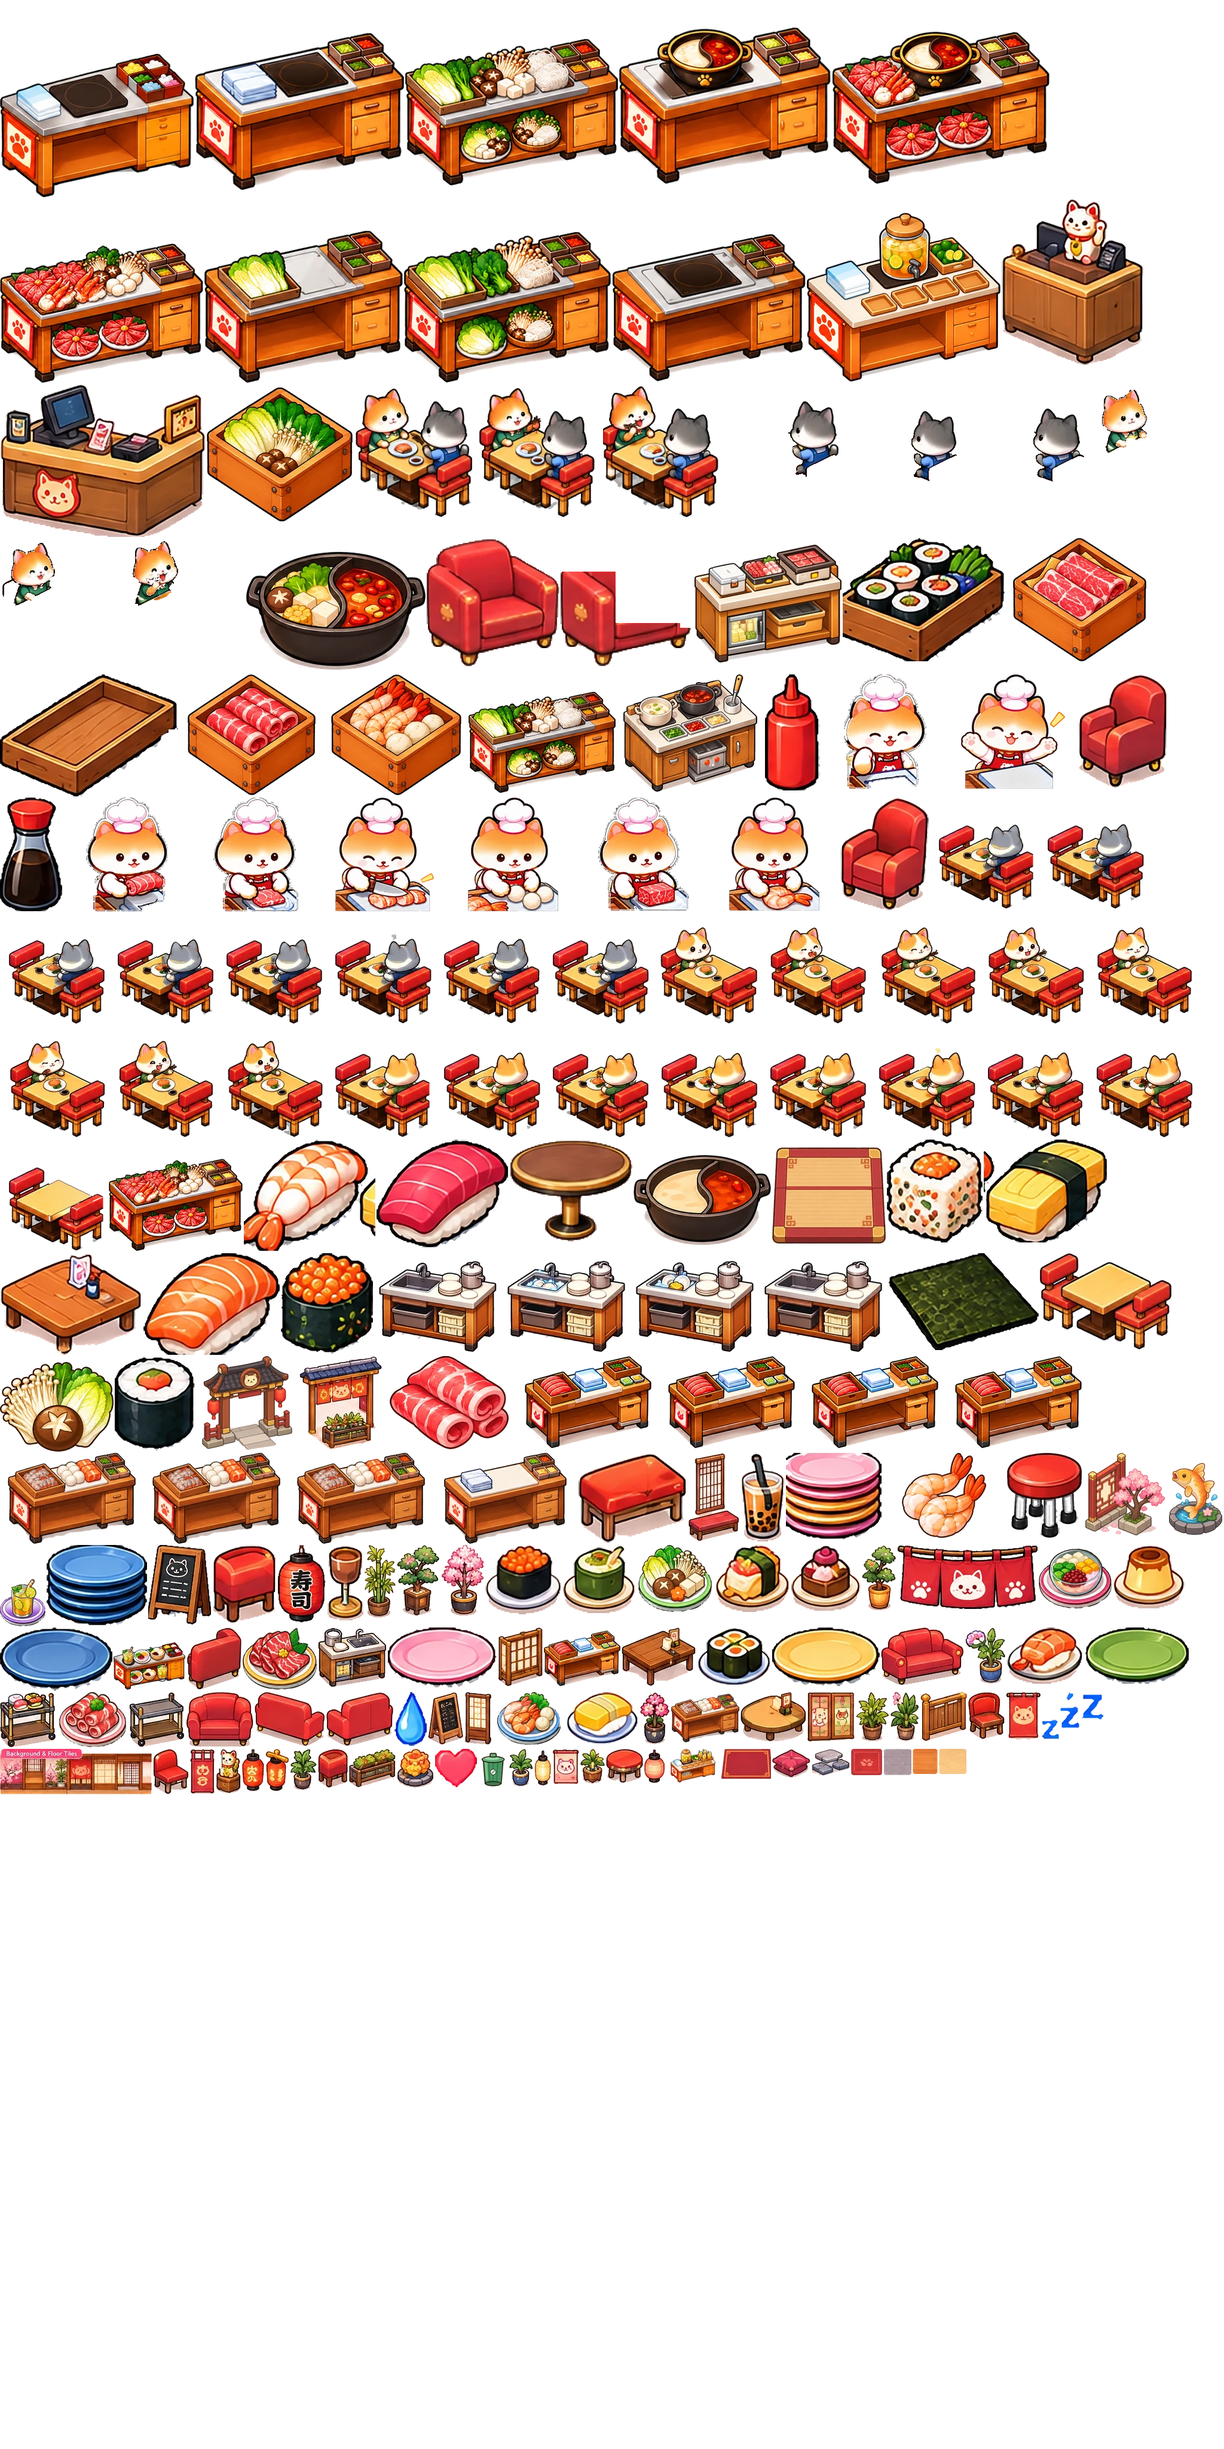
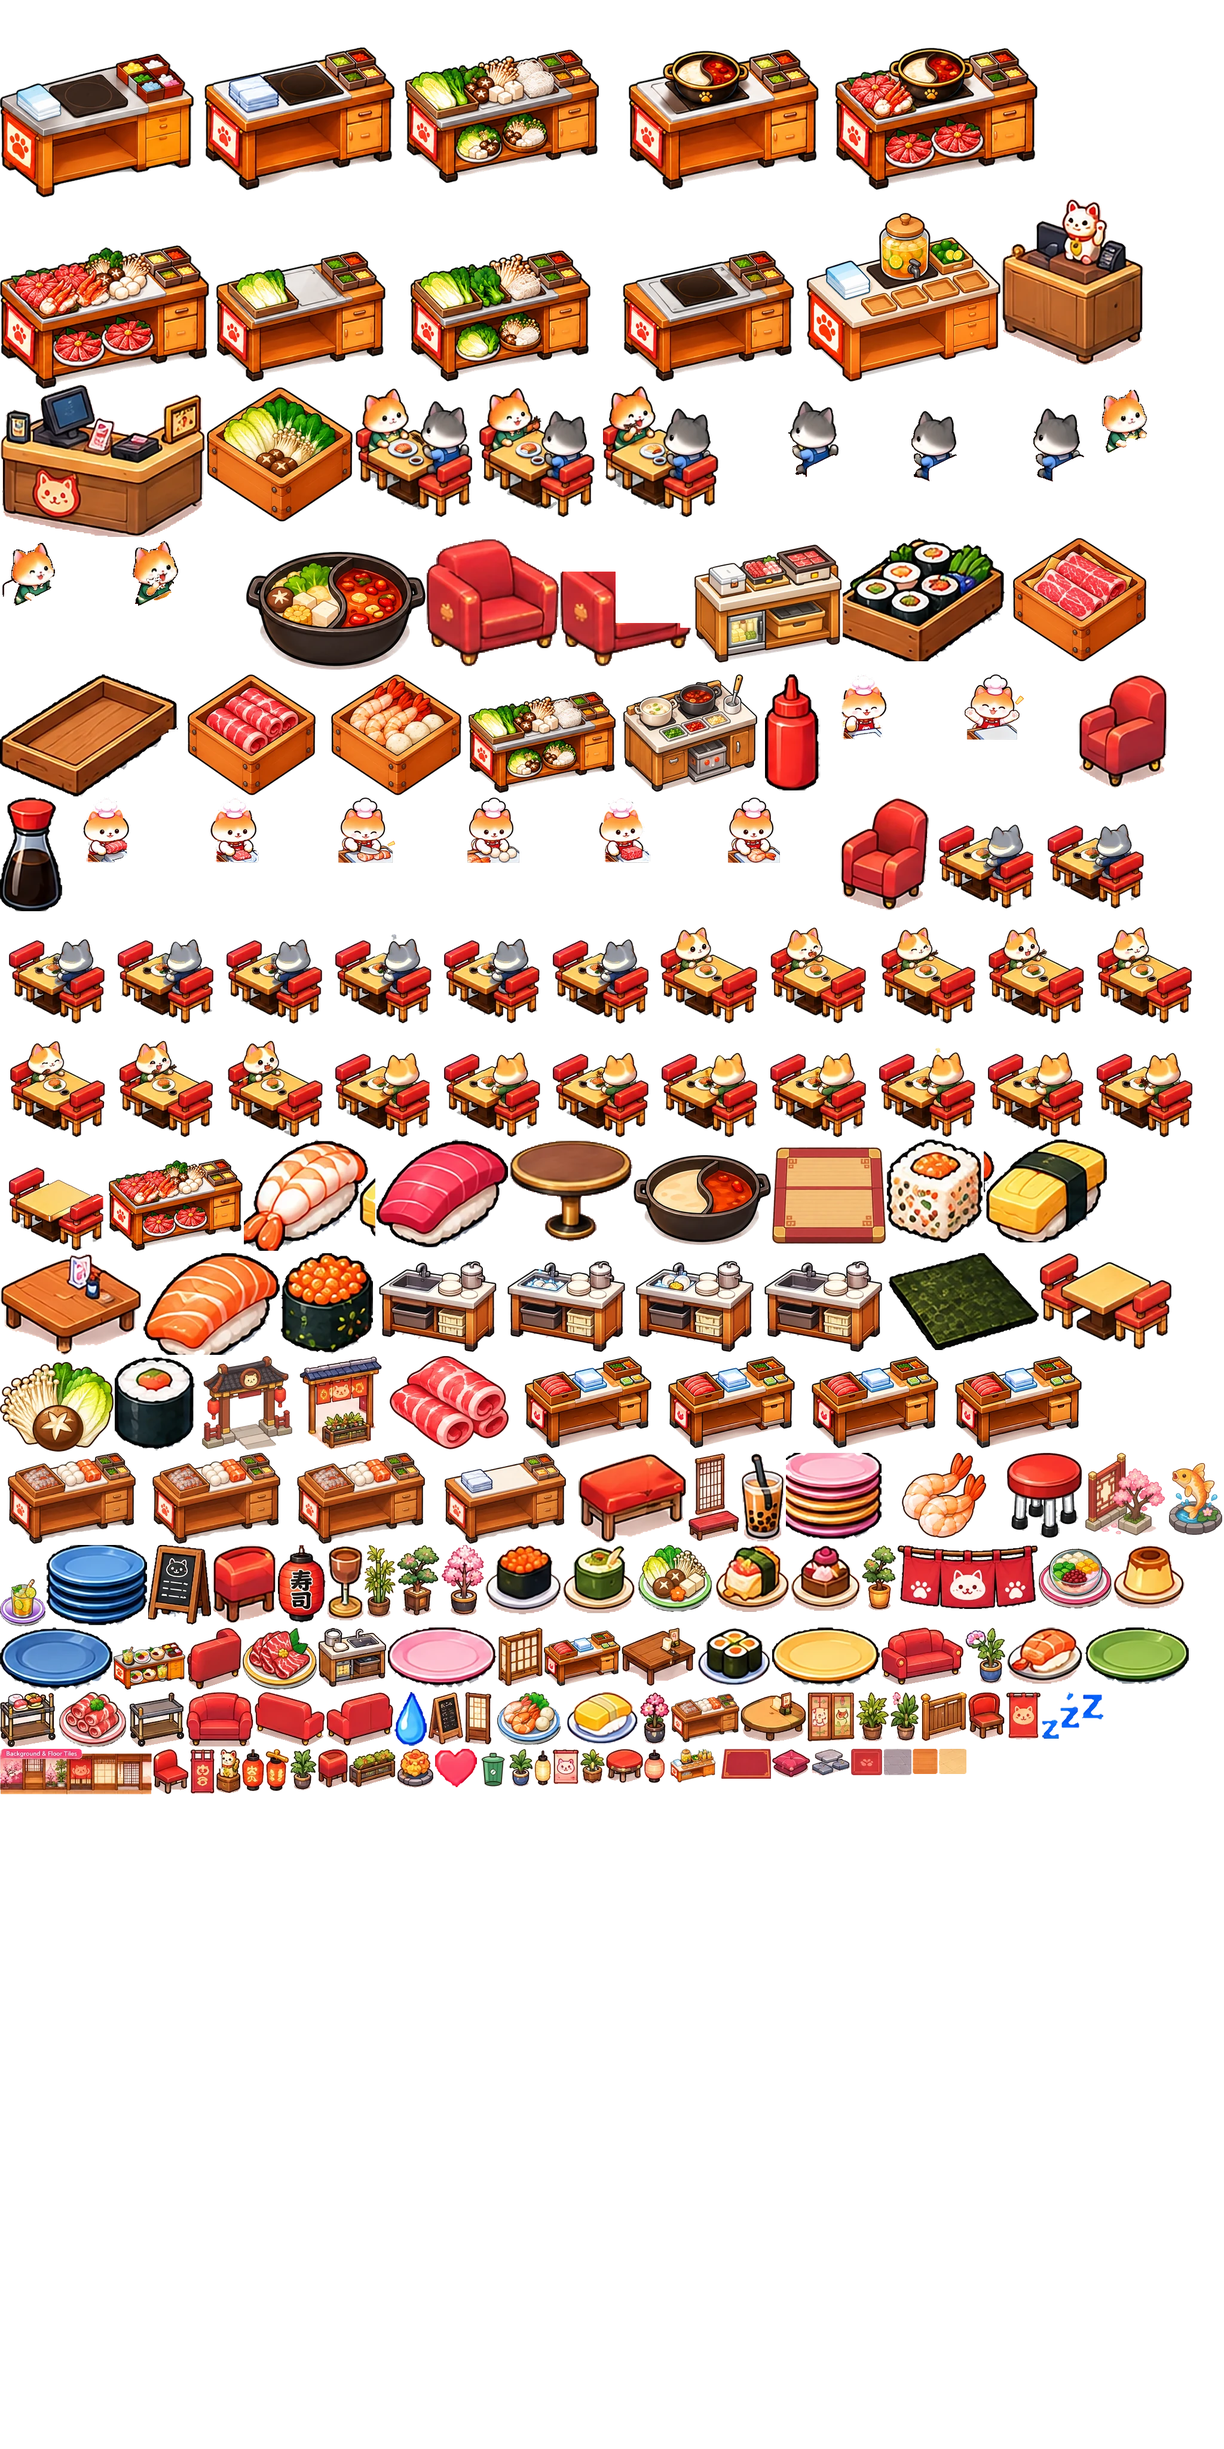
Hotpot: fix chef animation, AUTO x1/x2/x3, Chinese-style floors and counters
- Chef overlays (beef/shrimp) now sit in the original chef area with one common scale
  and a hat-centre anchor across frames (was 2x too big, jumping); dark fringe shaved.
- Counter state frames share one scale (no size jump between states).
- HUD: AUTO button + speed button (x1 -> x2 -> x3) while AUTO is on.
- Floors: terracotta kitchen tiles with red diamonds, rosewood dining planks, stone
  entrance with a red runner, Hotpot Hall carpet with gold fret border and medallions.
- Belt, bar counter and loader: red lacquer with gold trim.

Claude-Session: https://claude.ai/code/session_01JrqTz97yA2ubtaFzCa3pUp

diff --git a/js/render.js b/js/render.js
@@ -26,9 +26,9 @@
     lantern_r: 24, lantern_w: 24, lantern_p: 24, banner: 34, plant1: 40, plant2: 42, bamboo: 34, chalkboard: 38, maneki: 30, sakura_tree: 130, koi: 76,
     gate: 120, sakura_pot: 46, bonsai: 46, stall: 104, bench_red: 60, table_long: 78, stool: 26, stool_round: 30 };
   const FLOOR = {
-    tile:   ['#f6e3c8', '#ecd2ae'],
-    wood:   ['#dba26a', '#cf935b'],
-    stone:  ['#d9d6d2', '#cac5bf'],
+    tile:   ['#f4e2c6', '#e2b98f'],    // kitchen: cream / terracotta tiles
+    wood:   ['#b5643f', '#a35636'],    // dining: red-brown rosewood planks
+    stone:  ['#d6d2cc', '#c5bfb6'],    // entrance: grey stone + red runner
     rug:    ['#c8454f', '#b93c47'],
     tatami: ['#d65a46', '#c64c3b']   // hotpot hall: warm red carpet (was tatami straw)
   };
@@ -95,15 +95,40 @@
       const ctx = this.ctx, [a, b] = FLOOR[z.floor] || FLOOR.wood;
       ctx.fillStyle = a; ctx.fillRect(z.x, z.y, z.w, z.h);
       ctx.save(); ctx.beginPath(); ctx.rect(z.x, z.y, z.w, z.h); ctx.clip();
-      if (z.floor === 'tile' || z.floor === 'stone') {
+      if (z.floor === 'tile') {
+        // kitchen: cream / terracotta checker with small red diamonds at the tile corners
         const s = 40; ctx.fillStyle = b;
         for (let x = z.x; x < z.x + z.w; x += s) for (let y = z.y; y < z.y + z.h; y += s) if ((Math.round(x / s) + Math.round(y / s)) % 2 === 0) ctx.fillRect(x, y, s, s);
+        ctx.fillStyle = '#c9433a';
+        for (let x = z.x + s; x < z.x + z.w; x += s * 2) for (let y = z.y + s; y < z.y + z.h; y += s * 2) { ctx.beginPath(); ctx.moveTo(x, y - 6); ctx.lineTo(x + 6, y); ctx.lineTo(x, y + 6); ctx.lineTo(x - 6, y); ctx.closePath(); ctx.fill(); }
+      } else if (z.floor === 'stone') {
+        // entrance: grey stone slabs, red runner with gold edges from the door
+        const s = 40; ctx.fillStyle = b;
+        for (let x = z.x; x < z.x + z.w; x += s) for (let y = z.y; y < z.y + z.h; y += s) if ((Math.round(x / s) + Math.round(y / s)) % 2 === 0) ctx.fillRect(x, y, s, s);
+        ctx.strokeStyle = 'rgba(120,110,100,.35)'; ctx.lineWidth = 1.5;
+        for (let x = z.x; x < z.x + z.w; x += s) for (let y = z.y; y < z.y + z.h; y += s) ctx.strokeRect(x, y, s, s);
+        const d = this.g.C.LAYOUT.door, rx = d.x - 26;
+        ctx.fillStyle = '#a8262c'; ctx.fillRect(rx, z.y, 52, z.h); ctx.fillStyle = '#e2a83a'; ctx.fillRect(rx + 3, z.y, 3, z.h); ctx.fillRect(rx + 46, z.y, 3, z.h);
+        ctx.fillStyle = 'rgba(226,168,58,.55)'; for (let y = z.y + 20; y < z.y + z.h; y += 40) { ctx.beginPath(); ctx.arc(d.x, y, 6, 0, Math.PI * 2); ctx.fill(); }
       } else if (z.floor === 'wood') {
+        // dining: rosewood planks, dark seams, faint grain
         ctx.fillStyle = b;
+        for (let y = z.y, r = 0; y < z.y + z.h; y += 22, r++) { if (r % 2) ctx.fillRect(z.x, y, z.w, 20); }
+        ctx.fillStyle = '#7d3a26';
         for (let y = z.y, r = 0; y < z.y + z.h; y += 22, r++) { ctx.fillRect(z.x, y + 20, z.w, 2); for (let x = z.x + (r % 2) * 50; x < z.x + z.w; x += 100) ctx.fillRect(x, y, 2, 22); }
+        ctx.fillStyle = 'rgba(255,220,180,.10)'; for (let y = z.y + 6; y < z.y + z.h; y += 22) ctx.fillRect(z.x, y, z.w, 2);
       } else if (z.floor === 'tatami') {
-        ctx.strokeStyle = '#e8b14a'; ctx.lineWidth = 4;   // gold carpet seams
-        for (let x = z.x; x < z.x + z.w; x += 90) for (let y = z.y; y < z.y + z.h; y += 45) ctx.strokeRect(x + 2, y + 2, 86, 41);
+        // Hotpot Hall: red carpet, gold fret (回) border, round gold medallions
+        const x0 = z.x + 8, y0 = z.y + 8, w = z.w - 16, hh = z.h - 16;
+        ctx.fillStyle = '#7a1c22'; ctx.fillRect(x0 - 2, y0 - 2, w + 4, hh + 4);
+        ctx.fillStyle = a; ctx.fillRect(x0, y0, w, hh);
+        ctx.strokeStyle = '#e8b14a'; ctx.lineWidth = 3; ctx.strokeRect(x0 + 8, y0 + 8, w - 16, hh - 16); ctx.lineWidth = 1.5; ctx.strokeRect(x0 + 14, y0 + 14, w - 28, hh - 28);
+        ctx.lineWidth = 2; for (let x = x0 + 22; x < x0 + w - 30; x += 24) { for (const yy of [y0 + 4, y0 + hh - 12]) { ctx.strokeRect(x, yy, 8, 8); ctx.strokeRect(x + 2.5, yy + 2.5, 3, 3); } }
+        for (let x = x0 + 40; x < x0 + w - 20; x += 64) for (let y = y0 + 44; y < y0 + hh - 30; y += 64) {
+          ctx.strokeStyle = '#e8b14a'; ctx.lineWidth = 2; ctx.beginPath(); ctx.arc(x, y, 14, 0, Math.PI * 2); ctx.stroke();
+          ctx.fillStyle = 'rgba(232,177,74,.85)'; ctx.beginPath(); ctx.arc(x, y, 6, 0, Math.PI * 2); ctx.fill();
+          for (let k = 0; k < 4; k++) { const an = k * Math.PI / 2 + Math.PI / 4; ctx.beginPath(); ctx.arc(x + Math.cos(an) * 10, y + Math.sin(an) * 10, 2.2, 0, Math.PI * 2); ctx.fill(); }
+        }
       } else if (z.floor === 'rug') {
         // VIP rug (vector, after the rug sprite's design so it stays sharp at any size): red field, gold double border, corner frets
         const x0 = z.x + 10, y0 = z.y + 10, w = z.w - 20, hh = z.h - 20;
@@ -198,8 +223,8 @@
       const ctx = this.ctx, g = this.g, conv = g.conv;
       for (const id in conv.belts) {
         const b = conv.belts[id], R = b.R;
-        this.isoT(14); this.stadium(b, R + 16); ctx.fillStyle = '#6e4224'; ctx.fill();
-        this.isoT(); this.stadium(b, R + 16); ctx.fillStyle = '#c98b47'; ctx.fill(); ctx.lineWidth = 2; ctx.strokeStyle = '#7b4a22'; ctx.stroke();
+        this.isoT(14); this.stadium(b, R + 16); ctx.fillStyle = '#5a1f16'; ctx.fill();
+        this.isoT(); this.stadium(b, R + 16); ctx.fillStyle = '#a8322a'; ctx.fill(); ctx.lineWidth = 2; ctx.strokeStyle = '#4a1a12'; ctx.stroke();   // red lacquer
         this.stadium(b, R + 12); ctx.fillStyle = '#e7b24c'; ctx.fill();
         this.stadium(b, R + 10); ctx.fillStyle = '#45414a'; ctx.fill();
         this.stadium(b, R); ctx.lineWidth = 18; ctx.setLineDash([3, 9]); ctx.lineDashOffset = -conv.offset; ctx.strokeStyle = '#5d5964'; ctx.stroke(); ctx.setLineDash([]);
@@ -208,14 +233,14 @@
       }
       for (const id in conv.belts) {          // built-in bar counter on the dining side (customers eat here)
         const b = conv.belts[id], R = b.R, cx0 = b.x0 - R - 14, cw = b.Ls + 2 * R + 28, cy0 = b.cy + R + 16, ch = CT.w, up = CT.up;
-        ctx.fillStyle = '#7a4626'; for (let dy = 16; dy > -up; dy -= 1.5) { this.isoT(dy); ctx.fillRect(cx0, cy0, cw, ch); }   // solid counter body, top raised above the belt
-        this.isoT(-up); ctx.fillStyle = '#e2ad6e'; ctx.fillRect(cx0, cy0, cw, ch);
-        ctx.fillStyle = '#cf955a'; for (let x = cx0 + 22; x < cx0 + cw; x += 22) ctx.fillRect(x, cy0, 1.5, ch);
-        ctx.strokeStyle = '#7b4a22'; ctx.lineWidth = 2; ctx.strokeRect(cx0, cy0, cw, ch);
-        ctx.fillStyle = '#f6d39c'; ctx.fillRect(cx0, cy0 + ch - 4, cw, 4); ctx.fillStyle = '#b97a42'; ctx.fillRect(cx0, cy0, cw, 3);
+        ctx.fillStyle = '#5e1f18'; for (let dy = 16; dy > -up; dy -= 1.5) { this.isoT(dy); ctx.fillRect(cx0, cy0, cw, ch); }   // solid counter body, top raised above the belt
+        this.isoT(-up); ctx.fillStyle = '#b8392e'; ctx.fillRect(cx0, cy0, cw, ch);
+        ctx.fillStyle = '#a2302a'; for (let x = cx0 + 22; x < cx0 + cw; x += 22) ctx.fillRect(x, cy0, 1.5, ch);
+        ctx.strokeStyle = '#4a1a12'; ctx.lineWidth = 2; ctx.strokeRect(cx0, cy0, cw, ch);
+        ctx.fillStyle = '#e2a83a'; ctx.fillRect(cx0, cy0 + ch - 4, cw, 4); ctx.fillRect(cx0, cy0, cw, 3);   // gold trim
       }
       const Ld = g.C.LAYOUT.belt.loader; this.isoT();
-      ctx.fillStyle = '#8a5a34'; ctx.fillRect(Ld.x - 22, Ld.y - 9, 44, 18); ctx.fillStyle = '#b77a44'; ctx.fillRect(Ld.x - 19, Ld.y - 6, 38, 12);
+      ctx.fillStyle = '#5a1f16'; ctx.fillRect(Ld.x - 22, Ld.y - 9, 44, 18); ctx.fillStyle = '#e2a83a'; ctx.fillRect(Ld.x - 19, Ld.y - 6, 38, 12); ctx.fillStyle = '#b8392e'; ctx.fillRect(Ld.x - 15, Ld.y - 3, 30, 6);
       const P = g.player;
       if (P.hold && P.hold.kind === 'sushi' && Math.hypot(P.x - Ld.x, P.y - Ld.y) < 120) {
         ctx.strokeStyle = `rgba(255,240,140,${0.55 + 0.4 * Math.sin(this.t * 6)})`; ctx.lineWidth = 4; ctx.beginPath(); ctx.arc(Ld.x, Ld.y, 30, 0, Math.PI * 2); ctx.stroke();

diff --git a/js/ui.js b/js/ui.js
@@ -18,6 +18,15 @@
       this.g = game; this.r = renderer; this.app = app; this.panel = null; this.t = 0;
       document.querySelectorAll('#nav button').forEach(b => b.addEventListener('click', () => { CST.Audio.unlock(); CST.Audio.play('pop'); this.open(b.dataset.panel); }));
       $('sheetClose').addEventListener('click', () => this.close());
+      // AUTO: the bot plays; while it plays the speed button cycles x1 -> x2 -> x3 (back to x1 when AUTO goes off)
+      const syncAuto = () => {
+        const on = !!this.app.autoplay; $('autoBtn').classList.toggle('on', on); $('autoBtn').setAttribute('aria-pressed', on);
+        $('spdBtn').classList.toggle('hidden', !on); $('spdBtn').textContent = 'x' + this.app.speed;
+      };
+      this.syncAuto = syncAuto;
+      $('autoBtn').addEventListener('click', e => { e.stopPropagation(); const on = !this.app.autoplay; this.app.setAutoplay(on); if (!on) this.app.speed = 1; syncAuto(); });
+      $('spdBtn').addEventListener('click', e => { e.stopPropagation(); this.app.speed = this.app.speed >= 3 ? 1 : this.app.speed + 1; syncAuto(); });
+      syncAuto();
       $('sheet').addEventListener('pointerdown', e => { if (e.target.id === 'sheet') this.close(); });
       $('task').addEventListener('click', () => this.open('tasks'));
       this.bindGame(game);
@@ -176,7 +185,7 @@
         <div class="sec">Meow Hotpot Conveyor · v${CST.CONFIG.VERSION}.0</div>`;
       $('tSound').onclick = () => { S.sound = !S.sound; CST.Audio.on = S.sound; g.save(); this.refreshPanel(); };
       $('tVib').onclick = () => { S.vib = !S.vib; g.save(); this.refreshPanel(); };
-      $('tAuto').onclick = () => { this.app.setAutoplay(!this.app.autoplay); this.refreshPanel(); };
+      $('tAuto').onclick = () => { this.app.setAutoplay(!this.app.autoplay); if (!this.app.autoplay) this.app.speed = 1; this.syncAuto && this.syncAuto(); this.refreshPanel(); };
       $('tSave').onclick = () => { g.save(); this.toast('Saved!', 'c_fx_heart'); };
       $('tReset').onclick = () => this.confirmReset();
     }

diff --git a/css/style.css b/css/style.css
@@ -242,3 +242,10 @@ html,body{margin:0;height:100%;background:#2b1d18;overflow:hidden;font-family:va
 .ad-chip .tico svg{width:16px;height:16px}
 #hud-top .plus.adready{position:relative;animation:chipPulse 1.2s ease-in-out infinite}
 #hud-top .plus.adready::after{content:'▶';position:absolute;right:-7px;top:-7px;width:15px;height:15px;border-radius:50%;background:#ffcf3d;border:2px solid #6b3a22;color:#6b3a22;font:900 7px/11px var(--font);text-align:center}
+
+/* auto play + speed (HUD, right of the phase chip) */
+.auto-ctl{margin-left:auto;display:flex;gap:6px;pointer-events:auto}
+.autob{font:900 12px var(--font);color:#fff;background:linear-gradient(#a98a74,#7d6250);border:2.5px solid #4a2614;border-radius:10px;padding:4px 9px;box-shadow:0 3px 0 #4a2614;text-shadow:0 1px 0 #4a2614;cursor:pointer}
+.autob:active{transform:translateY(2px);box-shadow:0 1px 0 #4a2614}
+.autob.on{background:linear-gradient(#ff8a5c,#d8432f)}
+.autob.spd{background:linear-gradient(#ffd45a,#f0a020);color:#4a2614;text-shadow:none;min-width:36px}

diff --git a/index.html b/index.html
@@ -24,6 +24,7 @@
     <div class="hud-row sub">
       <span id="phaseName" class="phase-chip">Phase 1</span><small id="rating" class="rating"></small>
       <div class="pill boost hidden" id="boost"><span>x1.5</span><b id="boostT">0s</b></div>
+      <div class="auto-ctl"><button id="autoBtn" class="autob" aria-pressed="false">AUTO</button><button id="spdBtn" class="autob spd hidden" aria-label="Game speed">x1</button></div>
     </div>
     <div id="rush" class="rush hidden"></div>
   </div>

diff --git a/tools/hotpot_art/build_from_chatgpt.py b/tools/hotpot_art/build_from_chatgpt.py
@@ -34,14 +34,61 @@ def fit(sp, w, h):
     sp = sp.resize((max(1, round(sp.width * k)), max(1, round(sp.height * k))), Image.LANCZOS)
     out = Image.new('RGBA', (w, h)); out.alpha_composite(sp, ((w - sp.width) // 2, h - sp.height)); return out
 
+# Animated groups: every frame of a group gets ONE common scale and a common anchor, otherwise the
+# animation jumps in size/position (each ChatGPT frame has its own tight bbox).
+#  - chef overlays: placed inside the area the ORIGINAL chef occupied in its frame (the rest of the frame is
+#    empty on purpose so the cat lines up with the counter), anchored on the chef-hat centre (top).
+#  - counter states: common scale (largest frame fits), anchored bottom-centre.
+GROUPS = {
+    'chefst_salmon_': ('chef', 4), 'chefst_tuna_': ('chef', 4),
+    'st3_salmon_': ('counter', 4), 'st3_tuna_': ('counter', 4), 'st4_maki_': ('counter', 4), 'st4_ikura_': ('counter', 4),
+}
+BLACK_BG = ('8eaed88b',)   # sheets that came on a black background: shave the dark fringe
+
+def load(split, name):
+    im = Image.open(f'{split}/{name}.png').convert('RGBA')
+    if name.startswith(BLACK_BG):
+        from PIL import ImageFilter
+        a = im.getchannel('A').filter(ImageFilter.MinFilter(3)); im.putalpha(a)
+    return im.crop(im.getbbox())
+
+def hat_cx(sp):   # x centre of the opaque pixels in the top 18 % (chef hat): stable across frames
+    import numpy as np
+    a = np.array(sp.getchannel('A'))[: max(1, int(sp.height * 0.18))] > 100
+    xs = np.where(a.any(axis=0))[0]; return (xs[0] + xs[-1]) / 2 if len(xs) else sp.width / 2
+
+def fit_group(kind, frames, rects, orig_boxes):
+    outs = []
+    if kind == 'chef':
+        # target: union of the original chef bboxes (frame-local), scale by height of the tallest new frame
+        ux0 = min(b[0] for b in orig_boxes); uy0 = min(b[1] for b in orig_boxes); ux1 = max(b[2] for b in orig_boxes); uy1 = max(b[3] for b in orig_boxes)
+        k = (uy1 - uy0) / max(f.height for f in frames); cx = (ux0 + ux1) / 2
+        for f, (w, h) in zip(frames, rects):
+            g = f.resize((max(1, round(f.width * k)), max(1, round(f.height * k))), Image.LANCZOS)
+            out = Image.new('RGBA', (w, h)); out.alpha_composite(g, (int(round(cx - hat_cx(f) * k)), uy0)); outs.append(out)
+    else:
+        w, h = rects[0]; k = min(min(w / f.width, h / f.height) for f in frames)
+        for f in frames:
+            g = f.resize((max(1, round(f.width * k)), max(1, round(f.height * k))), Image.LANCZOS)
+            out = Image.new('RGBA', (w, h)); out.alpha_composite(g, ((w - g.width) // 2, h - g.height)); outs.append(out)
+    return outs
+
 if __name__ == '__main__':
     split, src, man, dst = sys.argv[1:5]
     fr = json.load(open(man))['atlases']['props']['frames']
     for k, base in EXTRA_FRAMES.items(): fr.setdefault(k, fr[base])
     atlas = Image.open(src).convert('RGBA')
+    done = set()
+    for pre, (kind, n) in GROUPS.items():
+        keys = [pre + str(i) for i in range(n)]
+        rects = [tuple(fr[k][2:4]) for k in keys]
+        orig_boxes = [atlas.crop((fr[k][0], fr[k][1], fr[k][0] + fr[k][2], fr[k][1] + fr[k][3])).getbbox() for k in keys]
+        for k, im in zip(keys, fit_group(kind, [load(split, S[k]) for k in keys], rects, orig_boxes)):
+            x, y, w, h = fr[k][:4]; atlas.paste(Image.new('RGBA', (w, h)), (x, y)); atlas.alpha_composite(im, (x, y)); done.add(k)
     for key, name in S.items():
+        if key in done: continue
         x, y, w, h = fr[key][:4]
         atlas.paste(Image.new('RGBA', (w, h)), (x, y))
-        atlas.alpha_composite(fit(Image.open(f'{split}/{name}.png').convert('RGBA'), w, h), (x, y))
+        atlas.alpha_composite(fit(load(split, name), w, h), (x, y))
     atlas.save(dst, 'WEBP', quality=90, method=6)
     print('wrote', dst, len(S), 'frames')
